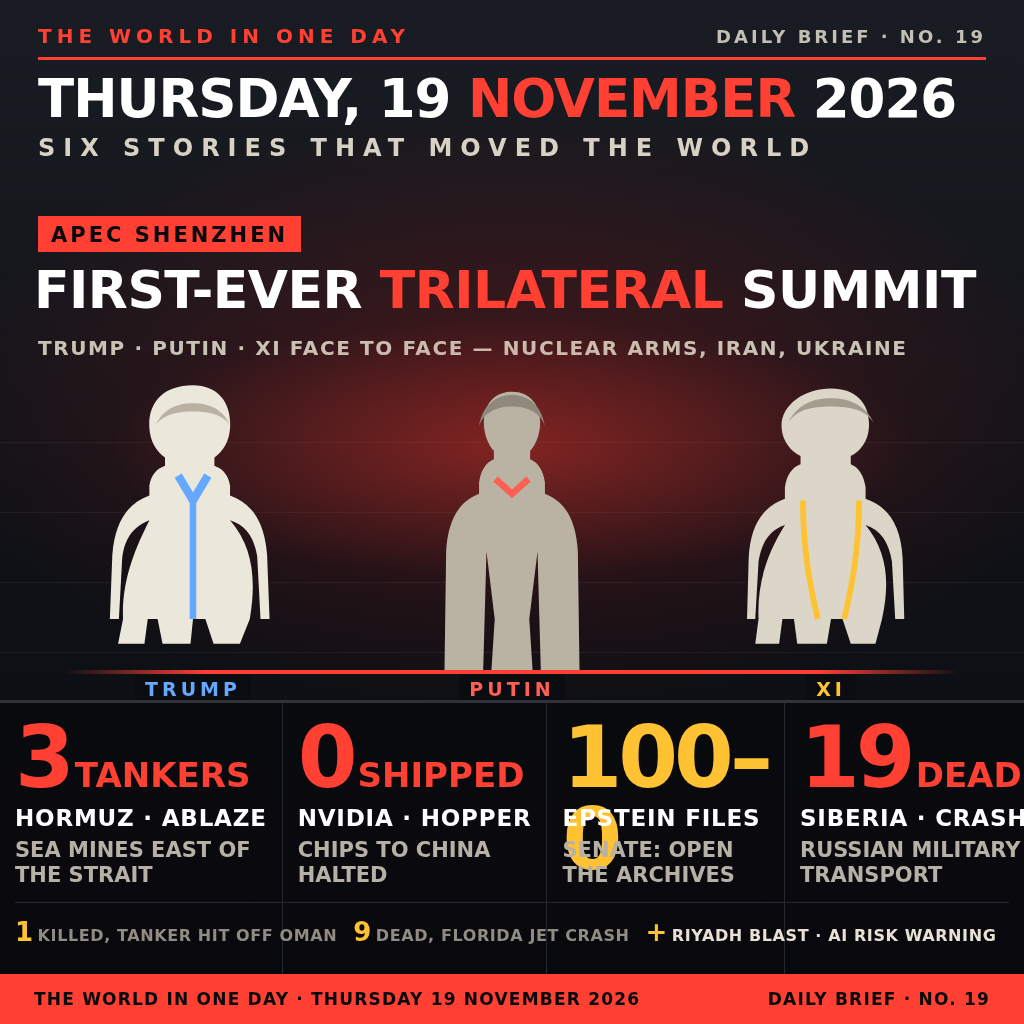
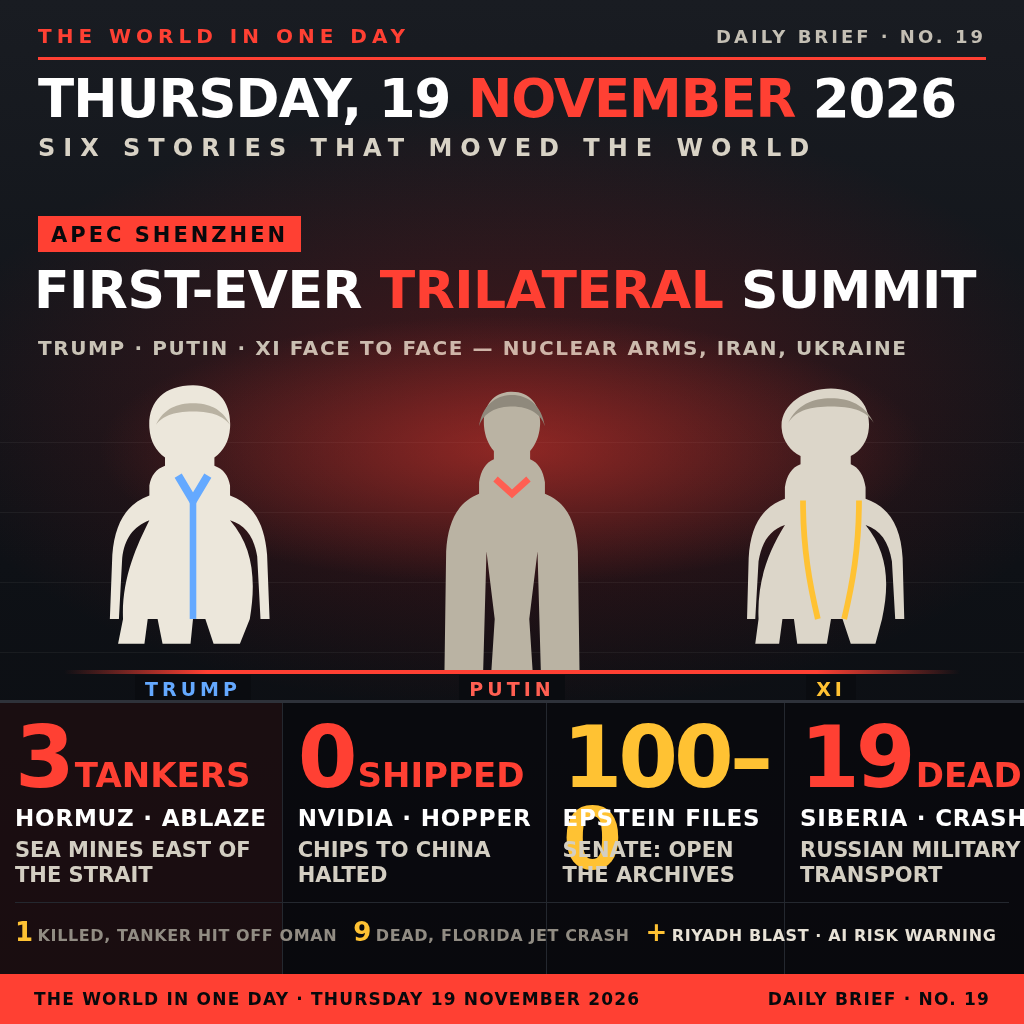
design: brighten strip body text, tint Hormuz cell, stronger hero glow for 382px legibility

diff --git a/design.html b/design.html
@@ -57,7 +57,7 @@
   .hlines div { position: absolute; left: 0; width: 1024px; height: 1px; background: rgba(255,255,255,0.05); }
   .glow {
     position: absolute; left: 50%; bottom: 110px; width: 860px; height: 280px; transform: translateX(-50%);
-    background: radial-gradient(ellipse at center, rgba(255,64,51,0.34), rgba(255,64,51,0) 66%);
+    background: radial-gradient(ellipse at center, rgba(255,64,51,0.42), rgba(255,64,51,0) 68%);
   }
   .figures { position: absolute; left: 0; bottom: 0; width: 1024px; height: 328px; }
   .fig { position: absolute; bottom: 0; width: 210px; height: 328px; }
@@ -86,9 +86,10 @@
   .cell .num { font-size: 86px; font-weight: 700; line-height: 0.95; letter-spacing: -4px; color: #ff4033; height: 82px; }
   .cell .num small { font-size: 34px; letter-spacing: 0; margin-left: 4px; }
   .cell .lab { margin-top: 6px; font-size: 23px; font-weight: 700; letter-spacing: 0.8px; color: #ffffff; white-space: nowrap; }
-  .cell .txt { margin-top: 7px; font-size: 21px; font-weight: 700; line-height: 1.18; color: #b6b1a6; }
+  .cell .txt { margin-top: 7px; font-size: 21px; font-weight: 700; line-height: 1.18; color: #d3cec2; }
   .cell .txt b { color: #ece6da; }
   .cell.amber .num, .cell.amber .num small { color: #ffc233; }
+  .cell:first-child { background: rgba(255,64,51,0.07); }
 
   .statline { position: absolute; top: 902px; left: 15px; width: 994px; height: 58px;
     border-top: 1px solid #24282f; display: flex; align-items: center; gap: 16px;
